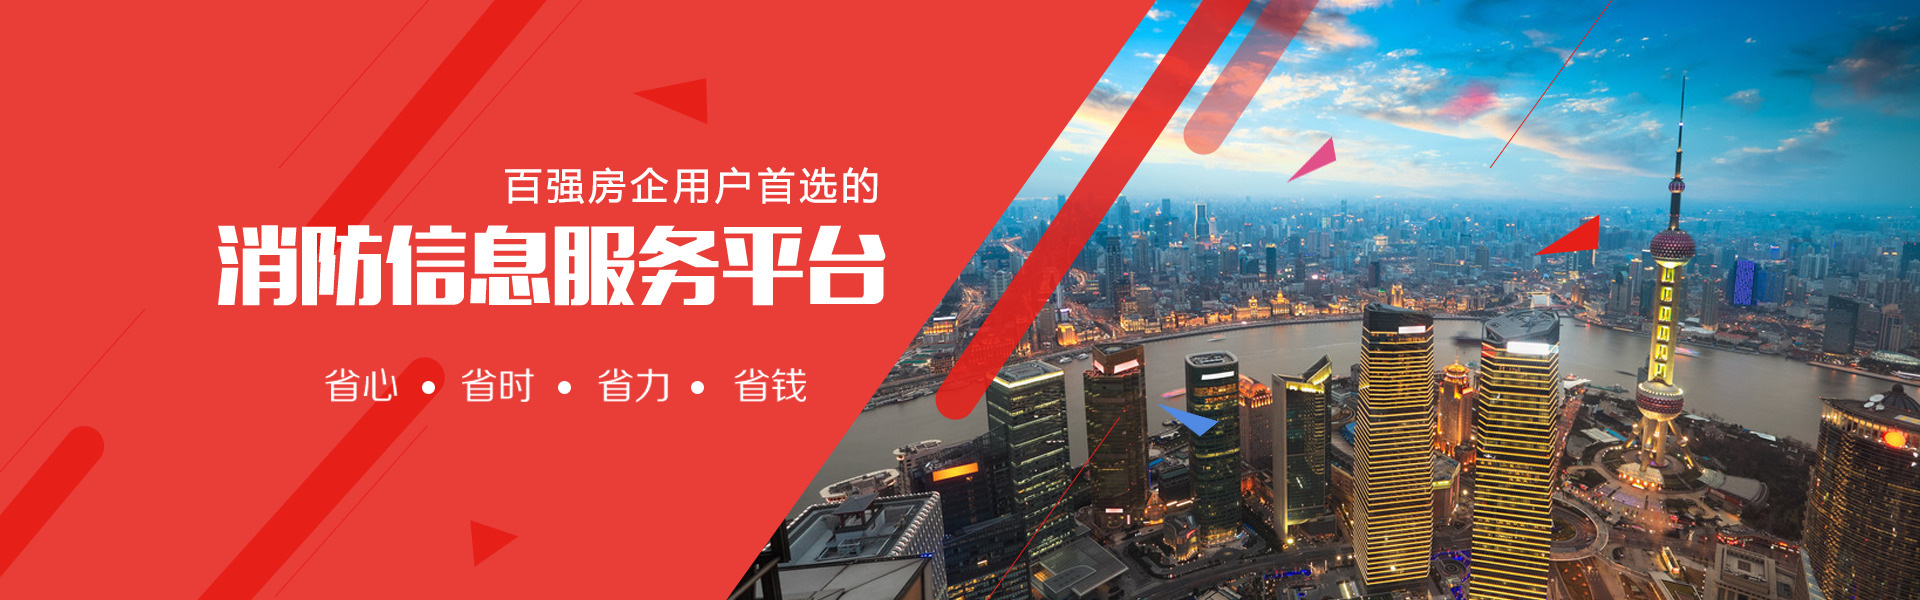
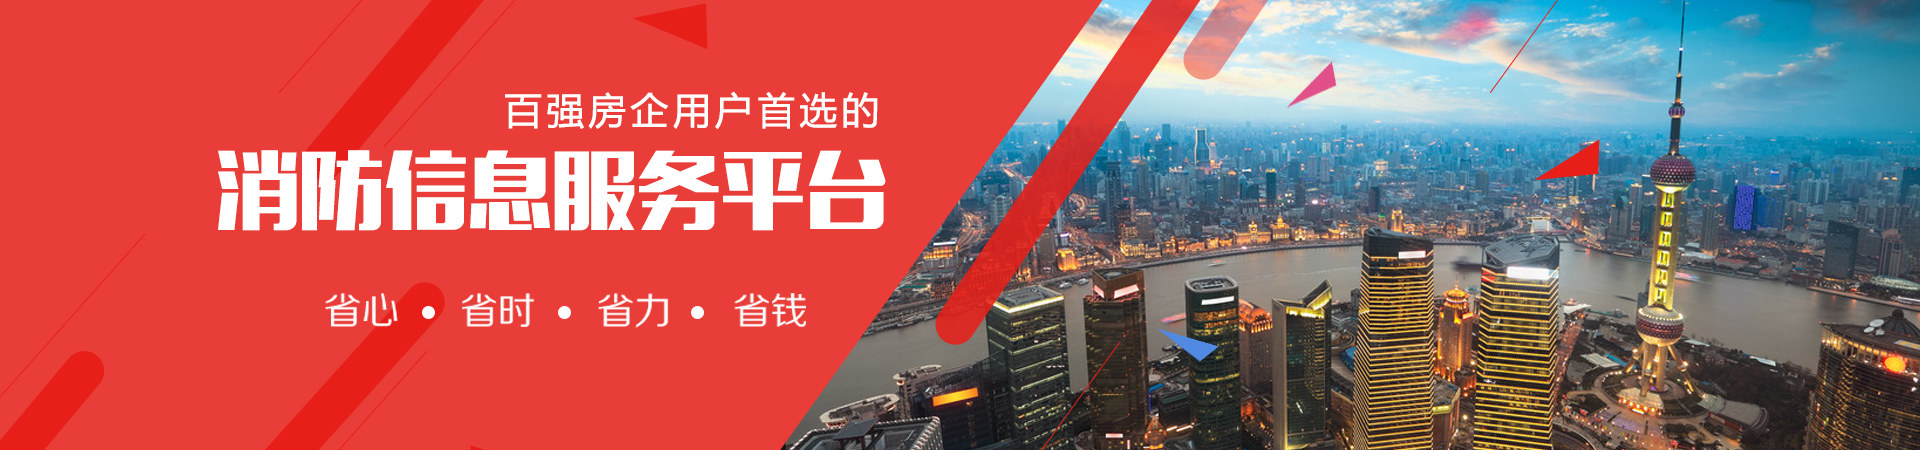
首页banner修改

diff --git a/src/view/homepage/homeBanner.vue b/src/view/homepage/homeBanner.vue
@@ -18,13 +18,13 @@
 
 <style scoped lang="scss">
   .banner-bg {
-    height: 600px;
+    height: 450px;
     background-image: url('./images/banner-homepage.jpg');
     position: relative;
   }
   .btn-to-register{
     position: absolute;
-    bottom:120px;
+    bottom:40px;
     background-color: orange;
     color:$white-max;
     border-color: orange;
